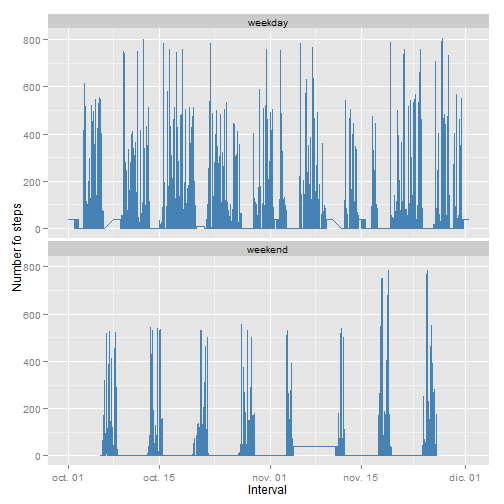
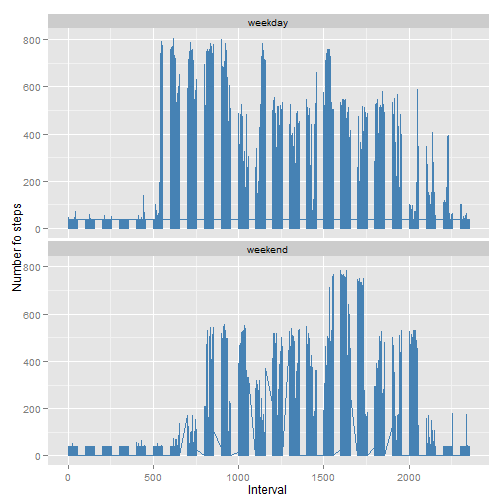
Completed project
Add som comments on the Rmd

Changed region(s): [[0.119, 0.0595, 0.9524, 0.4762], [0.0893, 0.506, 0.9524, 0.9524]]

diff --git a/PA1_template.html b/PA1_template.html
@@ -196,7 +196,7 @@ hr {
 
 <pre><code class="r">#install.packages(&quot;ggplot2&quot;)
 library(ggplot2)
-library(lubridate)
+library(knitr)
 </code></pre>
 
 <h2>Loading and preprocessing the data</h2>
@@ -219,7 +219,7 @@ library(lubridate)
 medians &lt;- median(stepsperday)
 </code></pre>
 
-<p>The mean of the daily steps is 9354.2295 and its median, 1.0395 &times; 10<sup>4</sup>.</p>
+<p>The mean of the daily steps is 9354.23 and its median, 10395.00.</p>
 
 <h2>What is the average daily activity pattern?</h2>
 
@@ -239,9 +239,9 @@ medians &lt;- median(stepsperday)
 
 <h2>Imputing missing values</h2>
 
-<p>Missing values2304.</p>
+<p>The orginal data contains some missing values2304.</p>
 
-<p>The missing values were imputed using the day median steps.</p>
+<p>In order to perform an exploratory analysis, the missing values were imputed using the day average steps for all the data. The R code used is he following.</p>
 
 <pre><code class="r">    acdat2 &lt;- acdat
     acdat2[is.na(acdat2$steps),1] &lt;- mean(acdat2$steps,na.rm =T)   
@@ -257,16 +257,20 @@ medians &lt;- median(stepsperday)
   medians2 &lt;- median(stepsperday2)
 </code></pre>
 
+<p>After imputing the missing values the mean and median are 10766.19 and 10766.19, respectively.</p>
+
 <h2>Are there differences in activity patterns between weekdays and weekends?</h2>
+
+<p>The activity patters differ btween weekends and midweek. this can be observe in the following plot.</p>
 
 <pre><code class="r">weekend &lt;- c(weekdays(as.Date(c(&quot;19072014&quot;,&quot;20072014&quot;),format=&quot;%d%m%Y&quot;)))
 acdat2$weekday &lt;- ifelse(weekdays(acdat2$date) %in% weekend, &quot;weekend&quot;, &quot;weekday&quot;)
 acdat2$weekday &lt;- as.factor(acdat2$weekday)
 
-ggplot(acdat2, aes(datetime,steps)) + geom_line(color = &quot;steelblue&quot;) + facet_wrap(~ weekday,2) + xlab(label = &quot;Interval&quot;) + ylab(&quot;Number fo steps&quot;)
+ggplot(acdat2, aes(interval,steps)) + geom_line(color = &quot;steelblue&quot;) + facet_wrap(~ weekday,2) + xlab(label = &quot;Interval&quot;) + ylab(&quot;Number fo steps&quot;)
 </code></pre>
 
[2 lines of base64/hex data omitted]
 
 </body>
 
